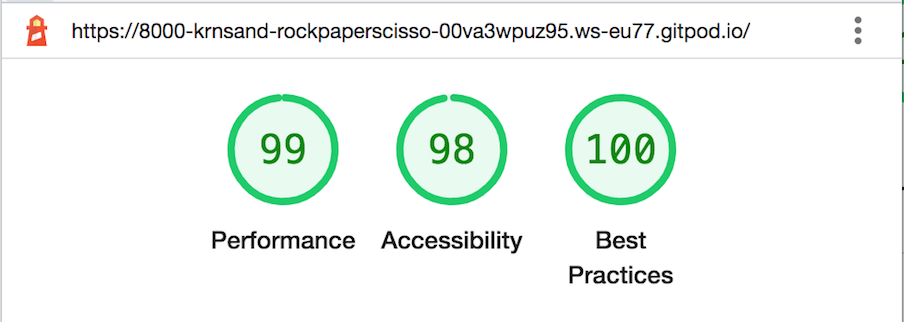
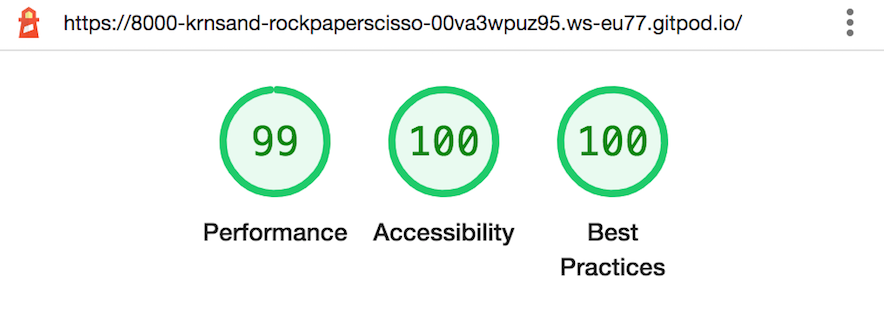
Change h3 to h2 in html, add new lighthouse image

diff --git a/index.html b/index.html
@@ -35,11 +35,11 @@
             <div class="game-wrapper">
                 
             <div class="player">
-                <h3 class="scores">You: <span id="player-score">0</span></h3>
+                <h2 class="scores">You: <span id="player-score">0</span></h2>
                 <img id="player-image" src="assets/images/rpsls-left.png" alt="Rock, Paper, Scissors, Lizard, Spock">
             </div>
             <div class="computer">
-                <h3 class="scores">Computer: <span id="computer-score">0</span></h3>
+                <h2 class="scores">Computer: <span id="computer-score">0</span></h2>
                 <img id="computer-image" src="assets/images/rpsls-right.png" alt="Rock, Paper, Scissors, Lizard, Spock">
             </div>
         </div>

diff --git a/README.md b/README.md
@@ -71,12 +71,20 @@ I have tested my code throughout the project as I wanted to check regularly that
   <img src="https://github.com/Krnsand/rock-paper-scissors-lizard-spock/blob/main/assets/images/readme_images/index_check.png">
   </details>
 
-And I have run my CSS through: 
+I have run my CSS through: 
 
 - The W3C CSS Validation Service:
 
   <details><summary>CSS</summary>
   <img src="https://github.com/Krnsand/rock-paper-scissors-lizard-spock/blob/main/assets/images/readme_images/css_check.png">
+  </details>
+
+And I have run my JavaScript through: 
+
+- The JSHint website:
+
+  <details><summary>JavaScript</summary>
+  <img src="">
   </details>
 
 - I have successfully tested my website on Google Chrome, Firefox, Microsoft Edge, Safari and Samsung Internet Browser.
@@ -97,19 +105,10 @@ And I have run my CSS through:
   - Nest Hub
   - Nest Hub Max
 
-I tested my deployed website with Lighthouse and got the following results on each page:
+I tested my deployed website with Lighthouse and got the following results:
 
 <details><summary>Home</summary>
   <img src="https://github.com/Krnsand/portfolio1_plant_care/blob/main/readme_images/index_lighthouse.png">
-  </details>
-  <details><summary>Care Station</summary>
-  <img src="https://github.com/Krnsand/portfolio1_plant_care/blob/main/readme_images/carestation_lighthouse.png">
-  </details>
-  <details><summary>Newsletter</summary>
-  <img src="https://github.com/Krnsand/portfolio1_plant_care/blob/main/readme_images/newsletter_lighthouse.png">
-  </details>
-  <details><summary>Success</summary>
-  <img src="https://github.com/Krnsand/portfolio1_plant_care/blob/main/readme_images/success_lighthouse.png">
   </details>
 
 I believe my performance score was effected by the sizes of my images. I will look into how to better the performance score in the future.
